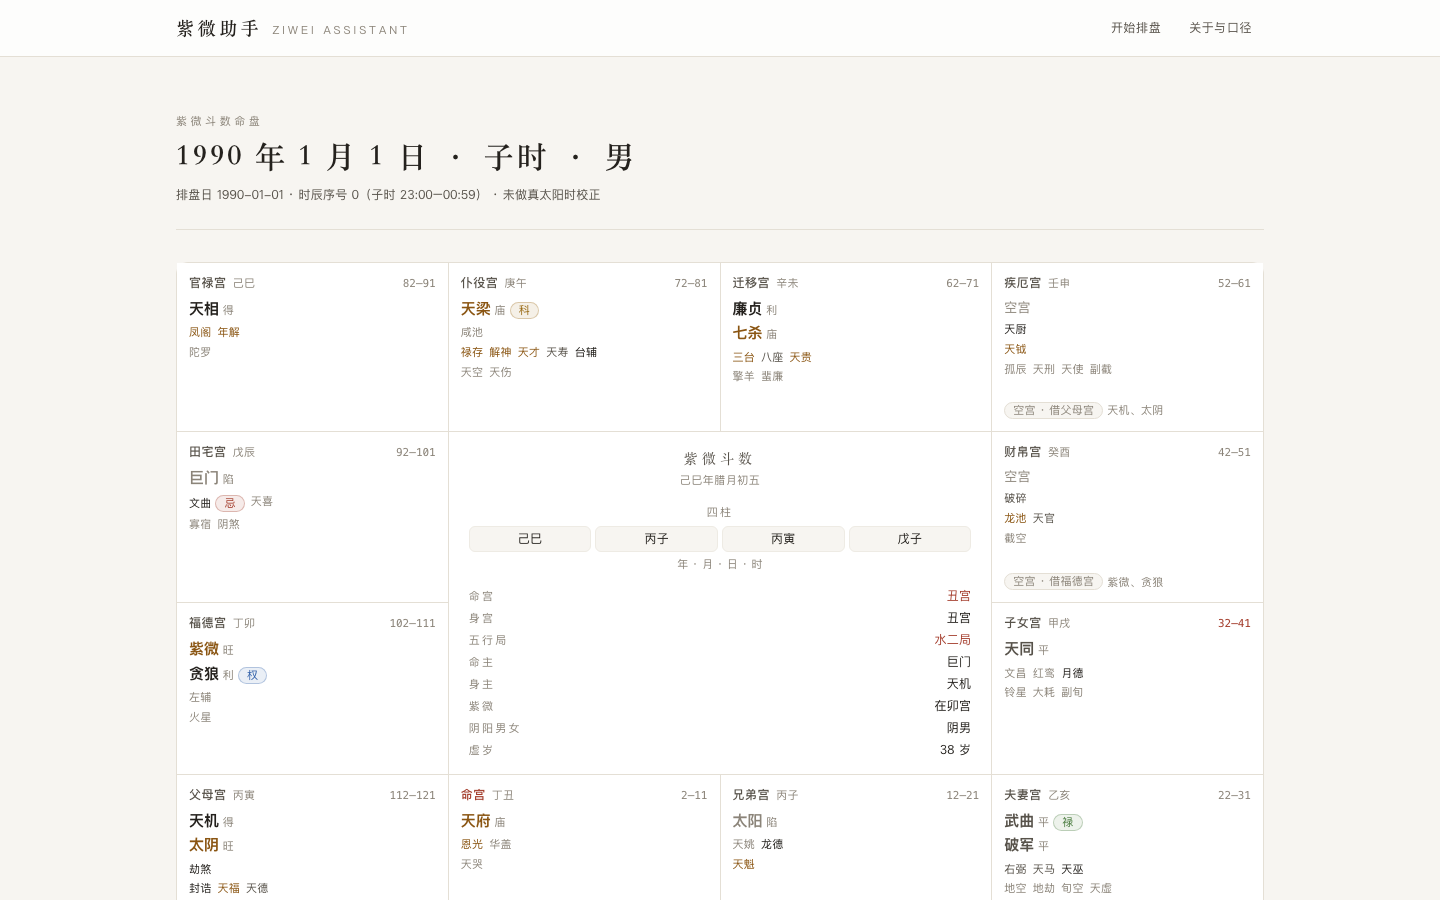
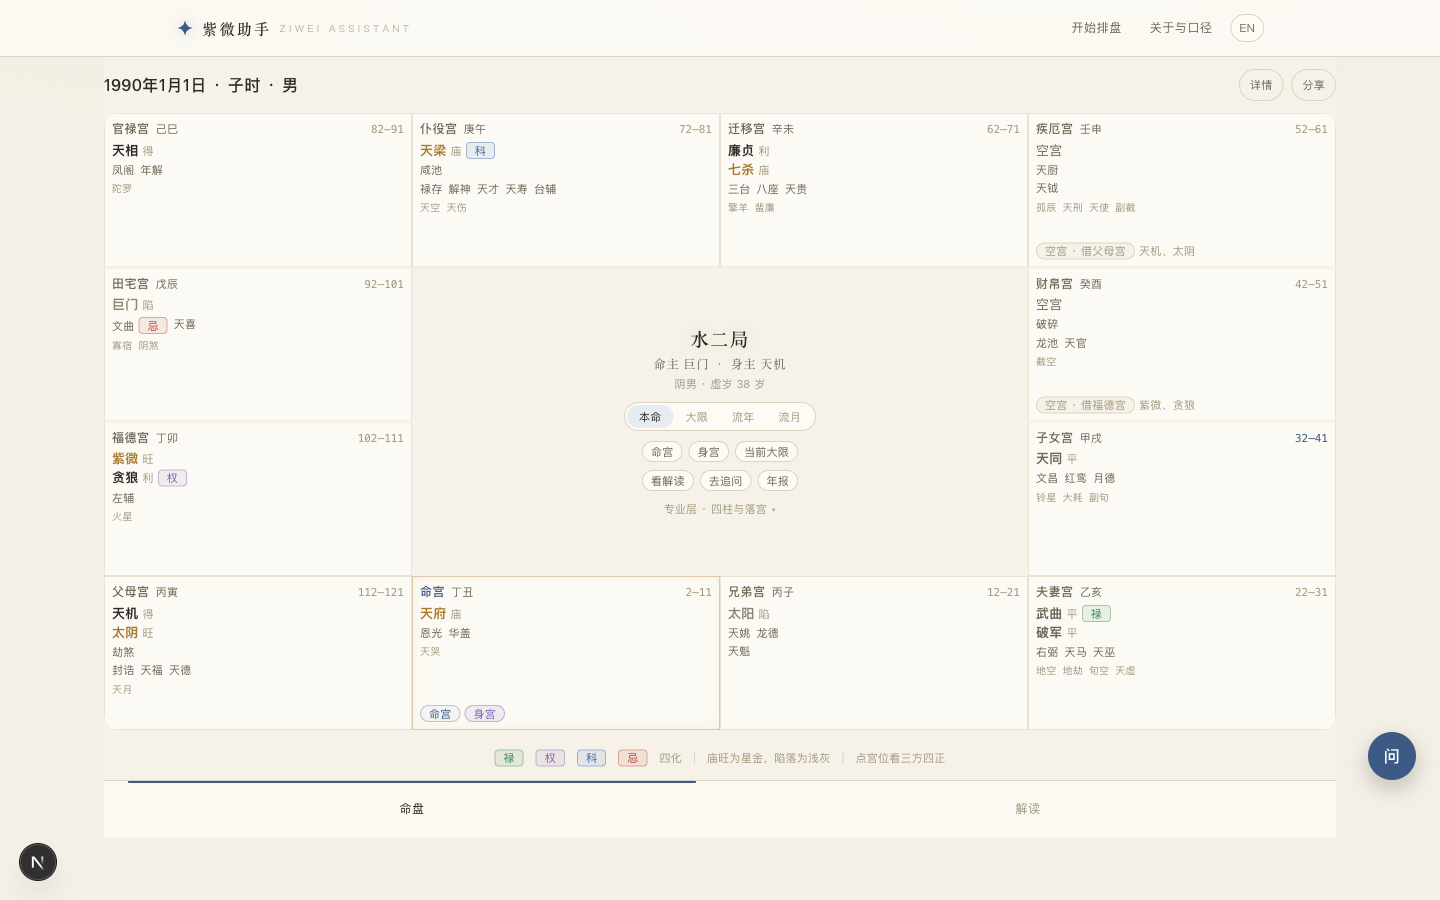
docs: README 更新 —— 重拍界面截图 + 古星图视觉章节 + 部署权限/回滚提示
- 四张界面截图重拍为当前古星图视觉（星图 hero / 命盘 / 解读 / 排盘表单）
- 新增「视觉与动效：古星图」章节：设计 token、开盘仪式、三层光感、
  reduced-motion 与打印兜底
- 修正过时文案：「＋ 新建档案」→「去排一张盘」、首页路由描述、测试用例数
- deploy/README.md 9.2 节补两点：发布命令的权限放行规则建议、
  构建前先打回滚镜像 tag（原 runbook 漏写，本次发布时踩过）
- 首页竖排标题加纸色晕影，把盘心鎏金紫微星从字底下"挖"掉，
  否则标题穿过星点看起来像杂点

diff --git a/apps/web/src/app/globals.css b/apps/web/src/app/globals.css
@@ -404,6 +404,12 @@
 
 .hero-title {
   animation: hero-title 600ms cubic-bezier(0.22, 1, 0.36, 1) 260ms both;
+  /* 纸色晕影：把盘心的鎏金紫微星从字底下"挖"出来，
+     否则竖排标题正好从星上穿过，看起来像个杂点 */
+  text-shadow:
+    0 0 6px #f6f2e9,
+    0 0 12px #f6f2e9,
+    0 0 22px rgba(246, 242, 233, 0.92);
 }
 
 .hero-seal {

diff --git a/deploy/README.md b/deploy/README.md
@@ -369,6 +369,21 @@ docker logs --tail=100 ziwei
 
 ### 9.2 发布步骤（代码有更新时）
 
+> **建议先给发布命令加一条权限放行规则**（Claude Code 会把批准过的命令记进
+> `.claude/settings.local.json` 的 `permissions.allow`），否则每次发布都要人工确认：
+>
+> ```json
+> "Bash(ssh -i ~/.ssh/sp-deploy-rsa ubuntu@49.234.25.35:*)"
+> ```
+>
+> 另：**构建前先给当前镜像打个回滚 tag** —— 下面 ② 步的构建会覆盖
+> `ziwei-assistant:compact` 这个 tag，不先备份就没有可回滚的旧镜像：
+>
+> ```bash
+> ssh -i ~/.ssh/sp-deploy-rsa ubuntu@49.234.25.35 \
+>   'docker tag ziwei-assistant:compact ziwei-assistant:rollback-$(date +%Y%m%d-%H%M)'
+> ```
+
 ```bash
 # ① 同步代码（排除数据/依赖/构建产物）
 rsync -az --rsync-path='sudo rsync' \
